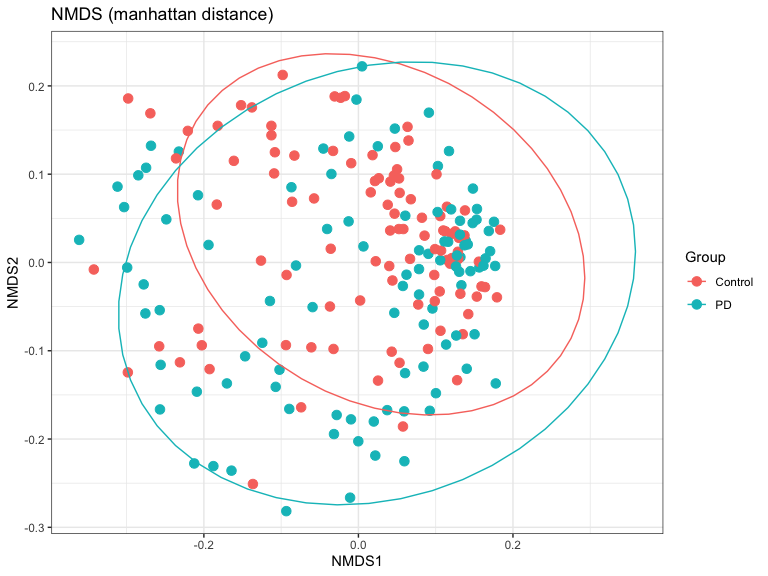
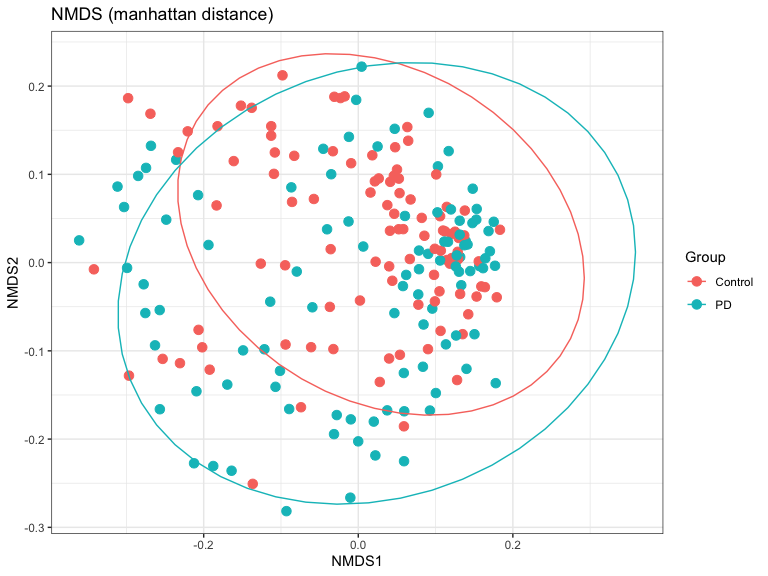
Repo to readme + add a call to merge_sylph into read_sylph

diff --git a/README.md b/README.md
@@ -27,6 +27,8 @@ remotes::install_github("gtonkinhill/strainspy", build_vignettes = TRUE)
 
 A full set of examples and analyses performed using `StrainSpy` are
 available [here](https://sudaraka88.github.io/strainspy-manuscript/).
+Raw R scripts used in the analysis are available at:
+<https://github.com/Sudaraka88/strainspy-manuscript>.
 
 Several useful notes for using StrainSpy with your own data is provided
 at the [end of this read me](#analysing-your-own-data).
@@ -246,9 +248,12 @@ This will create a unique output `tsv` file for each metagenome.
 
 ### Combining Sylph outputs
 
-`StrainSpy` provides a function `merge_sylph_files()` to combine
-multiple Sylph output files into a single file. Alternatively, you can
-do this in bash. See [below](#running-sylph-on-an-hpc-cluster).
+`StrainSpy` can directly accept a vector of paths to individual Sylph
+outputs into `read_sylph()`. Internally, this will call the function
+`merge_sylph_files()` to combine these into a single temp file.
+Alternatively, you can call `merge_sylph_files()` to combine Sylph
+outputs and save them to a single file that can also be used with
+`read_sylph()`, similar to the example in [Quick Start](#quick-start).
 
 **Tip:** Make sure that all output files were generated using the same
 Sylph database and analysis settings (i.e., `query` or `profile`).
